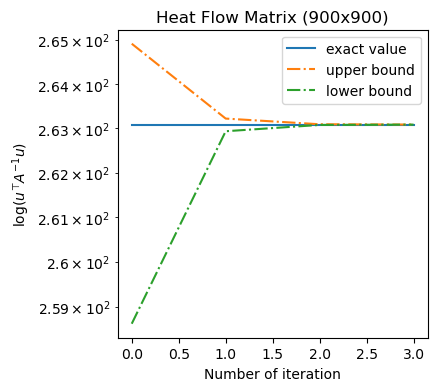
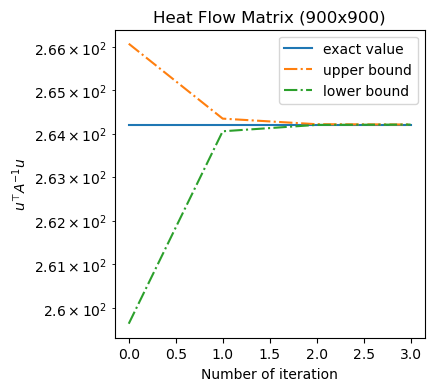
changed ylabel

diff --git a/helpers.py b/helpers.py
@@ -516,7 +516,7 @@ def graph_algo1(A, u, matrix_label, savefile, maxit=100, epsilon=1e-5):
     plt.plot(Ms, L_p[:j], '-.')
     plt.legend(['exact value', 'upper bound', 'lower bound'])
     plt.xlabel('Number of iteration')
-    plt.ylabel(r'$\log(u^\top A^{-1} u)$')
+    plt.ylabel(r'$u^\top A^{-1} u$')
     plt.title(matrix_label +' (' + str(n) + 'x' + str(n)+')') 
     plt.yscale('log')
     plt.savefig('figures/' +'algo1_'+ savefile +'.png', bbox_inches='tight')
